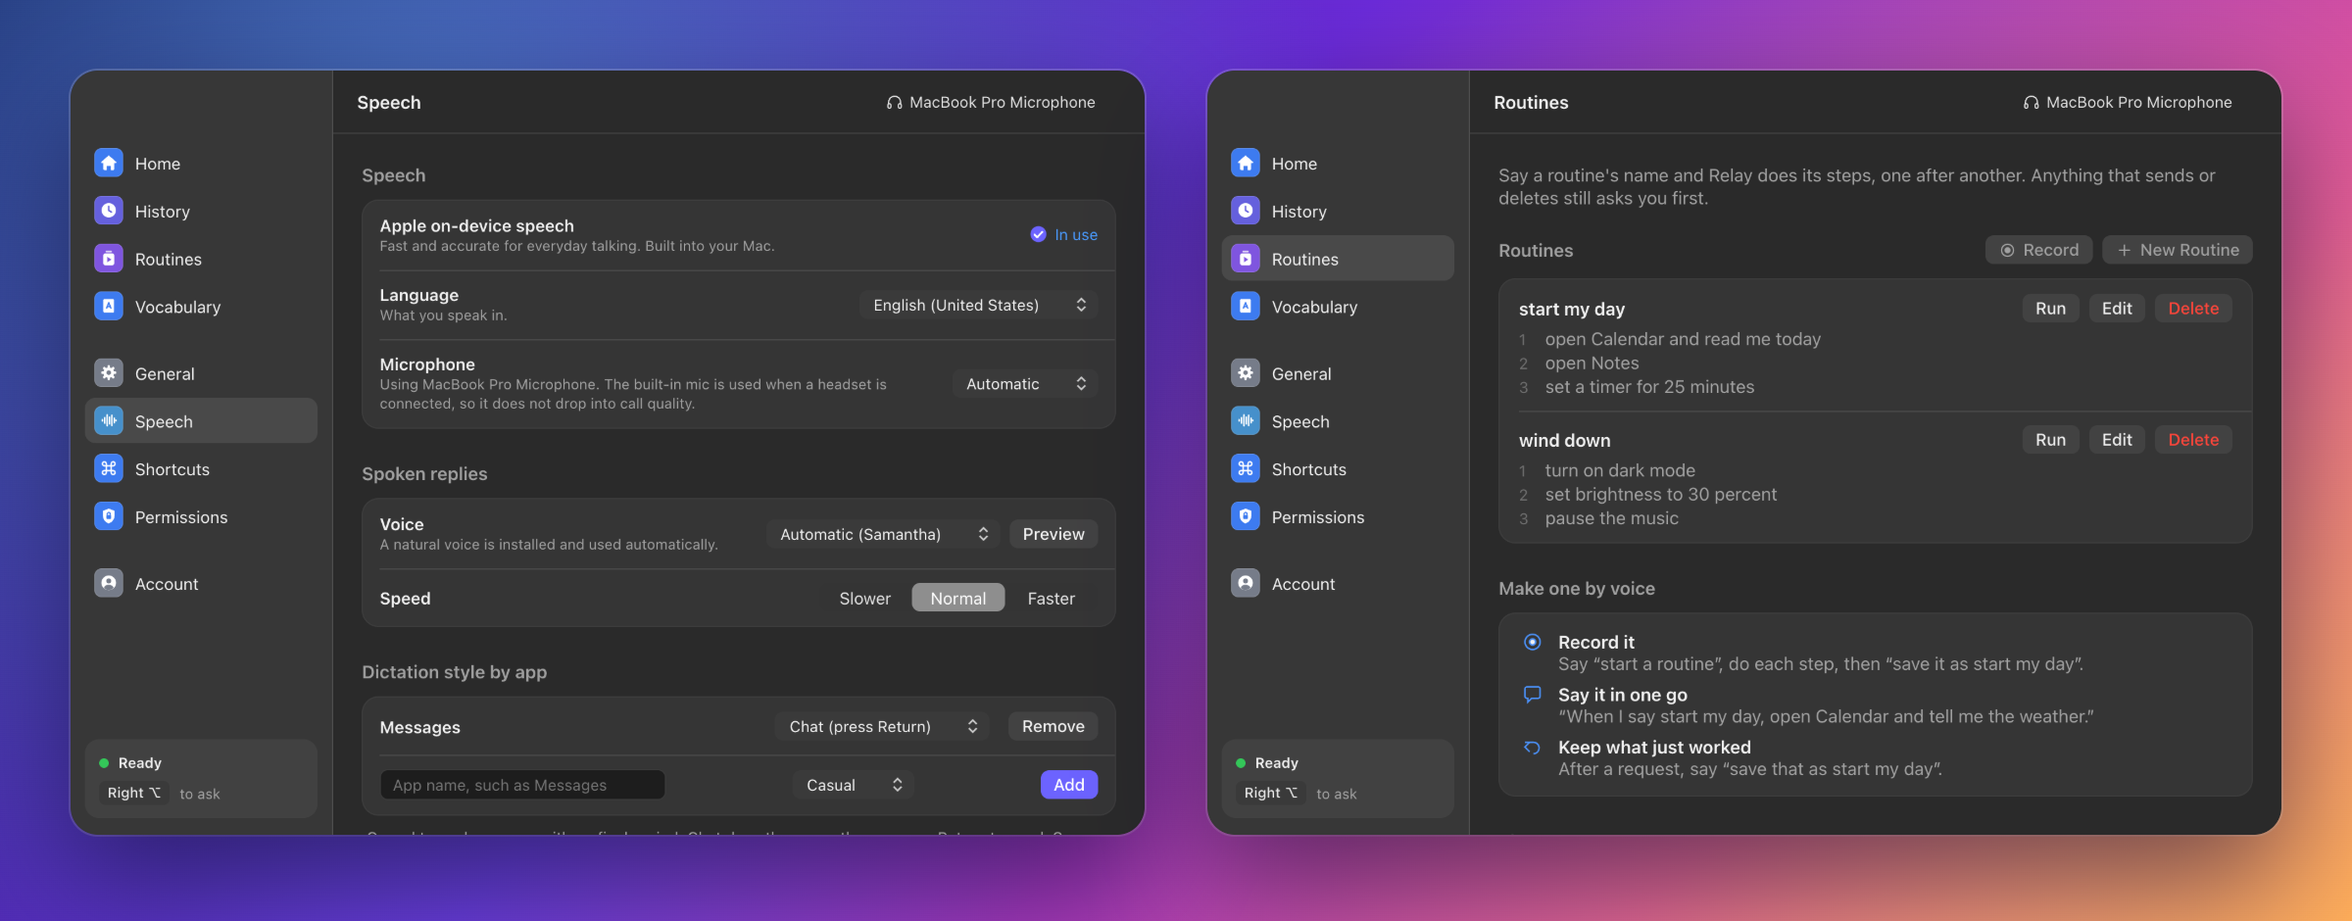
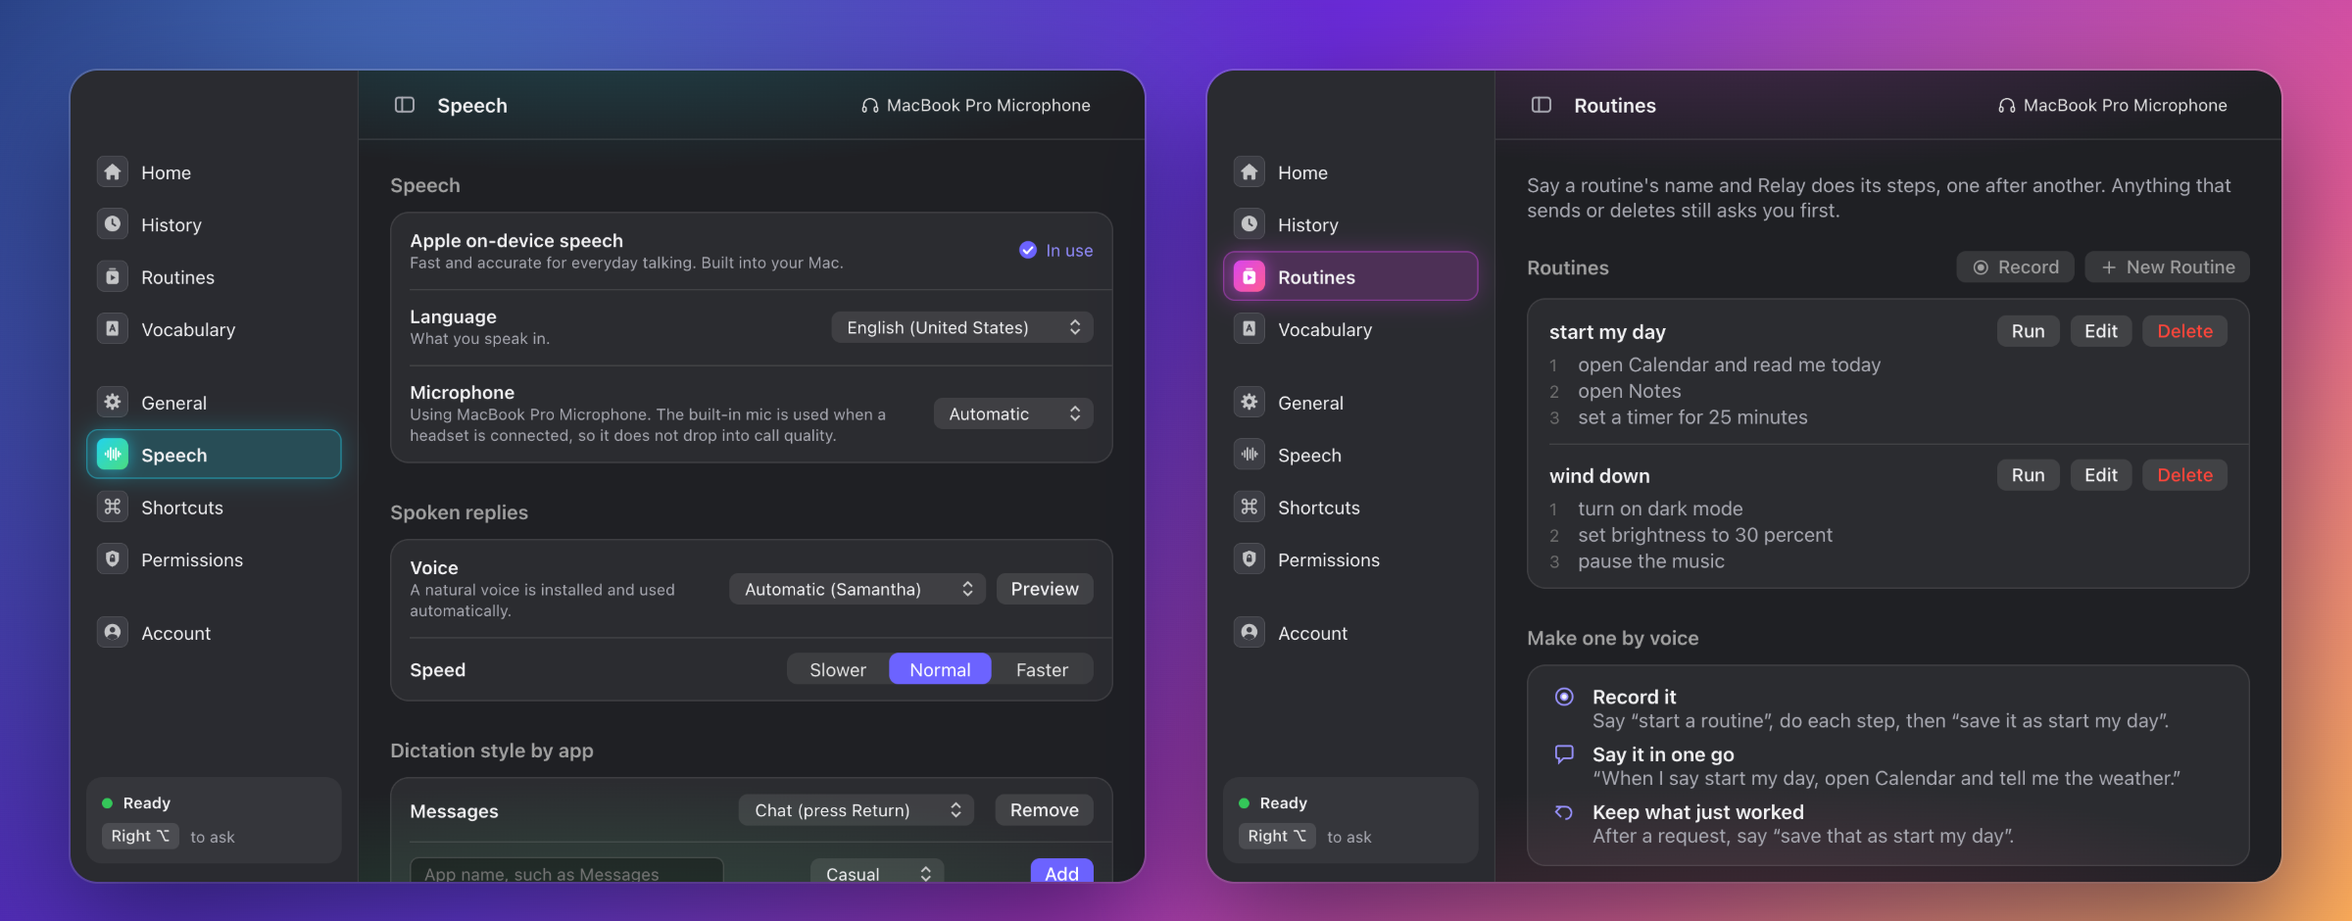
Calmer colours and a collapsible sidebar
Neutral gray interface with one fixed indigo accent for primary buttons,
toggles, selected segments and the chart. The page colour now only tints soft
glows at the top and bottom of the window and the selected sidebar item; the
rest of the sidebar is gray. The sidebar collapses to the left from a button in
the top bar or with Cmd+\ and the choice is remembered. Screenshots, README
images and the changelog are updated.

diff --git a/src/renderer/styles.css b/src/renderer/styles.css
@@ -1,20 +1,19 @@
-/* Window 820x620. Every page has its own colour (--pc, --pc2), set from app.js; --accent follows it. */
+/* Window 820x620. Neutral gray with one indigo accent. The page colour (--pc, --pc2, set from app.js) only tints the soft glows at the top and bottom and the selected sidebar item. */
 :root {
-  --bg: #120f2b;
-  --sidebar: rgba(8, 6, 28, 0.5);
-  --card: rgba(255, 255, 255, 0.07);
-  --card-border: rgba(255, 255, 255, 0.12);
+  --bg: #1f2024;
+  --sidebar: #2a2b30;
+  --card: rgba(255, 255, 255, 0.055);
+  --card-border: rgba(255, 255, 255, 0.09);
   --hair: rgba(255, 255, 255, 0.1);
-  --text: #f6f4ff;
-  --muted: #b3aed6;
-  --dim: #9a95c0;
-  --chip: rgba(255, 255, 255, 0.11);
+  --text: #f3f3f5;
+  --muted: #a9aab3;
+  --dim: #8d8e98;
+  --chip: rgba(255, 255, 255, 0.09);
   --sel: rgba(255, 255, 255, 0.09);
   --pc: #6c63ff;
   --pc2: #c13cf0;
-  --on: #fff;
-  --accent: var(--pc);
-  --link: color-mix(in srgb, var(--pc) 55%, #fff);
+  --accent: #6c63ff;
+  --link: #928cff;
   --green: #34c759;
   --orange: #ff9f0a;
   --red: #ff453a;
@@ -28,21 +27,24 @@
 }
 * { box-sizing: border-box; margin: 0; padding: 0; }
 html, body { height: 100%; background: var(--bg); color: var(--text); font-size: var(--fs-body); -webkit-font-smoothing: antialiased; user-select: none; cursor: default; overflow: hidden; }
-body { background: radial-gradient(760px 420px at 12% -8%, color-mix(in srgb, var(--pc) 34%, transparent), transparent 70%), radial-gradient(640px 420px at 100% 105%, color-mix(in srgb, var(--pc2) 26%, transparent), transparent 70%), var(--bg); }
+body { background: radial-gradient(620px 170px at 50% -50px, color-mix(in srgb, var(--pc) 22%, transparent), transparent 75%), radial-gradient(620px 170px at 50% calc(100% + 50px), color-mix(in srgb, var(--pc2) 18%, transparent), transparent 75%), var(--bg); }
 button { font: inherit; color: inherit; border: 0; background: none; cursor: default; }
 input, textarea, select { font: inherit; color: inherit; user-select: text; }
 a, .link { color: var(--link); cursor: default; }
 
 /* ---------- main window ---------- */
-.app { display: grid; grid-template-columns: 220px minmax(0, 1fr); grid-template-rows: minmax(0, 100vh); height: 100vh; }
-.sidebar { background: var(--sidebar); border-right: 1px solid rgba(255, 255, 255, 0.1); padding: 58px 12px 14px; display: flex; flex-direction: column; -webkit-app-region: drag; }
+.app { display: grid; grid-template-columns: auto minmax(0, 1fr); grid-template-rows: minmax(0, 100vh); height: 100vh; overflow: hidden; }
+.app.collapsed .sidebar { margin-left: -221px; }
+.sidebar { width: 220px; flex: none; background: var(--sidebar); border-right: 1px solid rgba(255, 255, 255, 0.08); padding: 58px 12px 14px; display: flex; flex-direction: column; -webkit-app-region: drag; transition: margin-left 0.22s ease; }
 .sidebar > * { -webkit-app-region: no-drag; }
 .nav { display: flex; flex-direction: column; gap: 2px; }
 .nav + .nav { margin-top: 18px; }
 .nav-item { display: flex; align-items: center; gap: 10px; height: 38px; padding: 0 8px; border-radius: 9px; font-size: var(--fs-nav); font-weight: 400; }
-.nav-item.active { background: linear-gradient(135deg, color-mix(in srgb, var(--tc) 55%, transparent), color-mix(in srgb, var(--tc2) 32%, transparent)); box-shadow: inset 0 0 0 1px color-mix(in srgb, var(--tc) 55%, transparent); font-weight: 600; }
-.nav-item:hover:not(.active) { background: color-mix(in srgb, var(--tc) 16%, transparent); }
-.icon-box { width: 24px; height: 24px; border-radius: 6px; display: grid; place-items: center; flex: none; box-shadow: inset 0 0 0 0.5px rgba(255, 255, 255, 0.18); }
+.nav-item.active { background: color-mix(in srgb, var(--tc) 20%, transparent); box-shadow: inset 0 0 0 1px color-mix(in srgb, var(--tc) 42%, transparent), 0 0 18px color-mix(in srgb, var(--tc) 26%, transparent); font-weight: 600; }
+.nav-item:hover:not(.active) { background: rgba(255, 255, 255, 0.06); }
+.icon-box { width: 24px; height: 24px; border-radius: 6px; display: grid; place-items: center; flex: none; background: #3c3d44; --bc: #3c3d44; box-shadow: inset 0 0 0 0.5px rgba(255, 255, 255, 0.12); }
+.nav-item:not(.active) .icon-box svg { opacity: 0.7; }
+.nav-item.active .icon-box { background: linear-gradient(135deg, var(--tc), var(--tc2)); --bc: var(--tc); box-shadow: 0 0 12px color-mix(in srgb, var(--tc) 60%, transparent); }
 .icon-box svg { width: 16px; height: 16px; }
 .spacer { flex: 1; }
 .status-card { background: rgba(255, 255, 255, 0.05); border-radius: 12px; padding: 12px 12px 12px; height: 66px; }
@@ -50,14 +52,18 @@ a, .link { color: var(--link); cursor: default; }
 .dot { width: 8px; height: 8px; border-radius: 50%; background: var(--green); flex: none; }
 .dot.off { background: var(--orange); }
 .status-hint { display: flex; align-items: center; gap: 8px; margin-top: 8px; color: var(--muted); font-size: 12px; }
-.kbd { background: color-mix(in srgb, var(--pc) 26%, rgba(255, 255, 255, 0.08)); border-radius: 6px; padding: 0 12px; height: 23px; line-height: 23px; font-size: var(--fs-body); font-weight: 500; color: #ececec; white-space: nowrap; display: inline-block; }
+.kbd { background: rgba(255, 255, 255, 0.11); border-radius: 6px; padding: 0 12px; height: 23px; line-height: 23px; font-size: var(--fs-body); font-weight: 500; color: #ececec; white-space: nowrap; display: inline-block; }
 .kbd.small { padding: 0 7px; height: 20px; line-height: 20px; border-radius: 5px; font-size: 12px; }
 .row .kbd, .get-row .kbd { width: 90px; padding: 0; text-align: center; flex: none; }
-.row .kbd { background: color-mix(in srgb, var(--pc) 26%, rgba(255, 255, 255, 0.08)); height: 24px; line-height: 24px; }
+.row .kbd { background: rgba(255, 255, 255, 0.11); height: 24px; line-height: 24px; }
 
 .main { display: flex; flex-direction: column; min-width: 0; min-height: 0; }
-.topbar { height: 53px; border-bottom: 1px solid var(--hair); display: flex; align-items: center; justify-content: space-between; padding: 0 31px 0 20px; flex: none; -webkit-app-region: drag; }
-.topbar h1 { font-size: var(--fs-title); font-weight: 600; }
+.topbar { transition: padding-left 0.22s ease; height: 53px; border-bottom: 1px solid var(--hair); display: flex; align-items: center; justify-content: space-between; padding: 0 31px 0 20px; flex: none; -webkit-app-region: drag; }
+.topbar h1 { font-size: var(--fs-title); font-weight: 600; flex: 1; }
+.app.collapsed .topbar { padding-left: 84px; }
+.sbtn { -webkit-app-region: no-drag; width: 30px; height: 26px; border-radius: 7px; display: grid; place-items: center; flex: none; margin-right: 10px; color: var(--muted); }
+.sbtn:hover { background: rgba(255, 255, 255, 0.1); color: var(--text); }
+.sbtn svg { width: 18px; height: 18px; stroke: currentColor; fill: none; stroke-width: 1.6; stroke-linecap: round; stroke-linejoin: round; }
 .device { display: flex; align-items: center; justify-content: center; gap: 5px; color: #e4e4e4; font-size: var(--fs-body); width: 196px; white-space: nowrap; overflow: hidden; text-overflow: ellipsis; }
 .device svg { width: 15px; height: 15px; stroke: #e4e4e4; fill: none; stroke-width: 1.7; flex: none; }
 .content { flex: 1; overflow-y: auto; padding: 25px 24px 28px 24px; }
@@ -85,20 +91,20 @@ a, .link { color: var(--link); cursor: default; }
 .row .d.s13 { font-size: 13px; }
 .row .grow { flex: 1; min-width: 0; }
 .row .ttl { font-weight: 600; font-size: 14px; line-height: 18px; }
-.btn { background: color-mix(in srgb, var(--pc) 26%, rgba(255, 255, 255, 0.07)); box-shadow: inset 0 0 0 1px color-mix(in srgb, var(--pc) 38%, transparent); border-radius: 7px; padding: 0 11px; height: 24px; line-height: 24px; font-size: var(--fs-row); font-weight: 500; white-space: nowrap; display: inline-flex; align-items: center; gap: 6px; }
+.btn { background: rgba(255, 255, 255, 0.1); border-radius: 7px; padding: 0 11px; height: 24px; line-height: 24px; font-size: var(--fs-row); font-weight: 500; white-space: nowrap; display: inline-flex; align-items: center; gap: 6px; }
 .btn svg { width: 15px; height: 15px; stroke: currentColor; fill: none; stroke-width: 1.8; stroke-linecap: round; stroke-linejoin: round; }
-.btn:hover { background: color-mix(in srgb, var(--pc) 42%, rgba(255, 255, 255, 0.08)); }
-.btn.primary { background: linear-gradient(135deg, var(--pc), var(--pc2)); color: var(--on); box-shadow: 0 4px 14px color-mix(in srgb, var(--pc) 45%, transparent); }
-.btn.primary:hover { background: linear-gradient(135deg, var(--pc), var(--pc2)); filter: brightness(1.12); }
+.btn:hover { background: rgba(255, 255, 255, 0.16); }
+.btn.primary { background: var(--accent); color: #fff; }
+.btn.primary:hover { background: var(--accent); filter: brightness(1.12); }
 .btn.danger { color: var(--red); }
 .btn.big { height: 44px; border-radius: 10px; font-size: 16px; font-weight: 600; justify-content: center; width: 100%; }
 .btn[disabled] { opacity: 0.4; pointer-events: none; }
 .seg { display: inline-flex; background: rgba(255, 255, 255, 0.08); border-radius: 8px; padding: 0; }
 .seg button { padding: 0 8px; height: 24px; border-radius: 7px; font-size: var(--fs-row); color: #e6e6e6; width: 92px; }
-.seg button.on { background: linear-gradient(135deg, var(--pc), var(--pc2)); color: var(--on); box-shadow: 0 2px 10px color-mix(in srgb, var(--pc) 45%, transparent); }
+.seg button.on { background: var(--accent); color: #fff; }
 .toggle { width: 36px; height: 16px; border-radius: 8px; background: rgba(255, 255, 255, 0.24); position: relative; flex: none; transition: background 0.15s; }
 .toggle::after { content: ""; position: absolute; top: -1px; left: 0; width: 18px; height: 18px; border-radius: 50%; background: #fff; transition: transform 0.15s; box-shadow: 0 1px 2px rgba(0, 0, 0, 0.35); }
-.toggle.on { background: linear-gradient(90deg, var(--pc), var(--pc2)); }
+.toggle.on { background: var(--accent); }
 .toggle.on::after { transform: translateX(18px); }
 .field { width: 100%; background: rgba(0, 0, 0, 0.3); border: 1px solid rgba(255, 255, 255, 0.16); border-radius: 7px; height: 28px; padding: 0 10px; font-size: var(--fs-body); outline: none; }
 .field:focus { border-color: var(--accent); }
@@ -121,7 +127,7 @@ textarea.field { height: auto; padding: 8px 10px; }
 .stats .l { color: var(--muted); font-size: var(--fs-body); margin-top: 5px; }
 .get-row { display: flex; align-items: center; gap: 15px; padding: 12px 12px 13px 13px; min-height: 59px; }
 .get-row .ic { width: 22px; display: grid; place-items: center; color: var(--muted); flex: none; }
-.get-row .ic.blue { color: color-mix(in srgb, var(--pc) 70%, #fff); }
+.get-row .ic.blue { color: color-mix(in srgb, var(--accent) 70%, #fff); }
 .get-row .ic svg { width: 22px; height: 22px; stroke: currentColor; fill: none; stroke-width: 1.5; stroke-linecap: round; stroke-linejoin: round; }
 .get-row .grow { flex: 1; min-width: 0; max-width: 310px; }
 .get-row .kbd { margin-left: auto; }
@@ -142,13 +148,13 @@ textarea.field { height: auto; padding: 8px 10px; }
 .chart .grid { position: absolute; left: 44px; right: 18px; top: 18px; bottom: 36px; }
 .chart .gl { position: absolute; left: 0; right: 0; height: 1px; background: rgba(255, 255, 255, 0.08); }
 .chart .gy { position: absolute; left: -30px; color: var(--dim); font-size: 11.5px; transform: translateY(-50%); }
-.chart .bars { position: absolute; left: 44px; right: 18px; top: 18px; bottom: 36px; display: flex; align-items: flex-end; gap: 0; }
+.chart .bar { width: 36px; background: var(--accent); border-radius: 4px 4px 0 0; }
 .chart .col { flex: 1; display: flex; flex-direction: column; align-items: center; justify-content: flex-end; height: 100%; }
 .chart .bar { width: 36px; background: linear-gradient(var(--pc), var(--pc2)); border-radius: 4px 4px 0 0; }
 .chart .xl { position: absolute; bottom: 10px; color: var(--muted); font-size: var(--fs-small); transform: translateX(-50%); }
 .tabs { display: inline-flex; background: rgba(255, 255, 255, 0.08); border-radius: 8px; padding: 0; margin-bottom: 24px; }
 .tabs button { padding: 0 14px; height: 24px; border-radius: 8px; font-size: var(--fs-row); min-width: 81px; }
-.tabs button.on { background: linear-gradient(135deg, var(--pc), var(--pc2)); color: var(--on); box-shadow: 0 2px 10px color-mix(in srgb, var(--pc) 45%, transparent); }
+.tabs button.on { background: var(--accent); color: #fff; }
 .act { padding: 12px 16px; display: grid; grid-template-columns: 22px 1fr auto; gap: 12px; align-items: start; }
 .act + .act { border-top: 1px solid var(--hair); }
 .act .nm { font-weight: 600; font-size: var(--fs-body); }
@@ -172,7 +178,7 @@ textarea.field { height: auto; padding: 8px 10px; }
 .routine ol { margin: 4px 0 0 0; list-style: none; color: var(--muted); font-size: 15px; line-height: 19px; }
 .routine li span { color: #6f6f6f; display: inline-block; width: 22px; font-size: var(--fs-body); }
 .opt { display: flex; gap: 12px; padding: 4px 4px; }
-.opt svg { width: 19px; height: 19px; stroke: color-mix(in srgb, var(--pc) 70%, #fff); fill: none; stroke-width: 1.7; flex: none; margin-top: 0; }
+.opt svg { width: 19px; height: 19px; stroke: color-mix(in srgb, var(--accent) 70%, #fff); fill: none; stroke-width: 1.7; flex: none; margin-top: 0; }
 .opt .t { font-size: 15px; font-weight: 600; line-height: 18px; }
 .opt .d { color: var(--muted); font-size: 15px; margin-top: 0; line-height: 18px; }
 .modal-bg { position: fixed; inset: 0; background: rgba(0, 0, 0, 0.5); display: grid; place-items: center; z-index: 10; }
@@ -190,7 +196,7 @@ textarea.field { height: auto; padding: 8px 10px; }
 .who .nm { font-weight: 600; font-size: var(--fs-row); }
 .who .em { color: var(--muted); font-size: var(--fs-body); margin-top: 1px; }
 .progress { height: 4px; background: rgba(255, 255, 255, 0.14); border-radius: 2px; overflow: hidden; margin-top: 8px; width: 220px; }
-.progress i { display: block; height: 100%; background: linear-gradient(90deg, var(--pc), var(--pc2)); }
+.progress i { display: block; height: 100%; background: var(--accent); }
 .lockline { display: flex; gap: 8px; color: var(--muted); font-size: var(--fs-body); line-height: 1.4; margin: 14px 4px 0; }
 .lockline svg { width: 14px; height: 14px; stroke: currentColor; fill: none; stroke-width: 1.8; flex: none; margin-top: 2px; }
 details.adv { margin-top: 22px; }
@@ -204,14 +210,14 @@ details.adv[open] summary::before { transform: rotate(90deg); }
 .onb > * { -webkit-app-region: no-drag; }
 .dots { display: flex; justify-content: center; align-items: center; gap: 8px; padding-top: 38px; height: 54px; flex: none; }
 .dots i { width: 8px; height: 8px; border-radius: 4px; background: rgba(255, 255, 255, 0.2); transition: width 0.2s; }
-.dots i.cur { width: 20px; background: linear-gradient(90deg, var(--pc), var(--pc2)); }
-.dots i.past { background: color-mix(in srgb, var(--pc) 55%, #666); }
+.dots i.cur { width: 20px; background: var(--accent); }
+.dots i.past { background: #8a8a92; }
 .stage { flex: 1; display: flex; flex-direction: column; align-items: center; justify-content: center; text-align: center; padding: 0 40px 10px; overflow: hidden; }
 .stage h2 { font-size: 26px; font-weight: 700; letter-spacing: -0.3px; margin-top: 24px; }
 .stage p.sub { color: var(--muted); font-size: 16px; margin-top: 10px; line-height: 1.4; max-width: 560px; }
 .stage p.fine { color: #7a7a7a; font-size: var(--fs-body); margin-top: 30px; }
 .footer { height: 54px; border-top: 1px solid var(--hair); display: flex; align-items: center; justify-content: space-between; padding: 0 24px; flex: none; }
-.pill-btn { background: linear-gradient(135deg, var(--pc), var(--pc2)); box-shadow: 0 4px 14px color-mix(in srgb, var(--pc) 40%, transparent); color: var(--on); border-radius: 20px; padding: 0 24px; height: 36px; font-size: var(--fs-row); font-weight: 500; }
+.pill-btn { background: var(--accent); color: #fff; border-radius: 20px; padding: 0 24px; height: 36px; font-size: var(--fs-row); font-weight: 500; }
 .pill-btn.dark { background: rgba(255, 255, 255, 0.12); box-shadow: none; padding: 0 20px; }
 .pill-btn[disabled] { opacity: 0.35; pointer-events: none; }
 .app-icon { width: 100px; height: 100px; position: relative; }
@@ -245,7 +251,7 @@ details.adv[open] summary::before { transform: rotate(90deg); }
 .steps b { color: #fff; }
 .yn { display: flex; gap: 12px; margin-top: 26px; }
 .yn button { background: rgba(255, 255, 255, 0.1); border-radius: 20px; padding: 0 26px; height: 38px; font-size: 16px; font-weight: 500; }
-.yn button.on { background: linear-gradient(135deg, var(--pc), var(--pc2)); }
+.yn button.on { background: var(--accent); }
 .form { width: 440px; text-align: left; margin-top: 22px; display: flex; flex-direction: column; gap: 12px; }
 
 .appicon { width: 30px; height: 30px; flex: none; display: grid; place-items: center; }

diff --git a/src/renderer/app.js b/src/renderer/app.js
@@ -51,7 +51,7 @@ function renderSidebar() {
   for (const group of NAV) {
     const nav = h('<nav class="nav"></nav>');
     for (const [id, name] of group) {
-      const item = h(`<div class="nav-item ${page === id ? 'active' : ''}" style="--tc:${THEME[id][0]};--tc2:${THEME[id][1]}"><span class="icon-box" style="background:${GRAD[id]};--bc:${COLORS[id]}">${glyph(NAV_GLYPH[id])}</span>${name}</div>`);
+      const item = h(`<div class="nav-item ${page === id ? 'active' : ''}" style="--tc:${THEME[id][0]};--tc2:${THEME[id][1]}"><span class="icon-box">${glyph(NAV_GLYPH[id])}</span>${name}</div>`);
       item.onclick = () => go(id);
       nav.append(item);
     }
@@ -74,15 +74,11 @@ function deviceLabel() {
   return `${icon('headphones')}${esc(d || 'Microphone')}`;
 }
 
-// The current page's colours drive --accent, buttons, toggles and the background glow (see styles.css).
+// The current page's colours tint the glows at the top and bottom and the selected sidebar item (see styles.css).
 function applyTheme() {
   const [a, b] = THEME[page] || THEME.home;
   document.documentElement.style.setProperty('--pc', a);
   document.documentElement.style.setProperty('--pc2', b);
-  // text on a filled button: dark on light colours (cyan, lime, yellow), white on the rest
-  const lum = (hex) => { const [r, g, bl] = [1, 3, 5].map((i) => parseInt(hex.slice(i, i + 2), 16) / 255).map((v) => (v <= 0.03928 ? v / 12.92 : ((v + 0.055) / 1.055) ** 2.4)); return 0.2126 * r + 0.7152 * g + 0.0722 * bl; };
-  const L = (lum(a) + lum(b)) / 2;
-  document.documentElement.style.setProperty('--on', 1.05 / (L + 0.05) >= (L + 0.05) / 0.055 ? '#fff' : '#0b0820');
 }
 
 function render() {
@@ -658,6 +654,19 @@ window.addEventListener('keyup', (e) => {
     perms = await relay.permissions();
     render();
   });
+  // Sidebar collapse: the button in the top bar, or Cmd+\. The choice is remembered.
+  const appEl = $('.app');
+  const setSidebar = (collapsed) => {
+    appEl.classList.toggle('collapsed', collapsed);
+    $('#sbtn').title = collapsed ? 'Show sidebar (⌘\\)' : 'Hide sidebar (⌘\\)';
+    try { localStorage.setItem('sidebar', collapsed ? 'collapsed' : 'open'); } catch {}
+  };
+  const toggleSidebar = () => setSidebar(!appEl.classList.contains('collapsed'));
+  $('#sbtn').onclick = toggleSidebar;
+  document.addEventListener('keydown', (e) => { if (e.metaKey && e.key === '\\') { e.preventDefault(); toggleSidebar(); } });
+  let saved = null;
+  try { saved = localStorage.getItem('sidebar'); } catch {}
+  setSidebar(saved === 'collapsed');
   relay.claudeStatus();
   relay.appIcons().then((i) => { appIcons = i; if (page === 'permissions') render(); });
   setInterval(async () => {

diff --git a/src/renderer/index.html b/src/renderer/index.html
@@ -10,7 +10,7 @@
 <div class="app">
   <aside class="sidebar" id="sidebar"></aside>
   <section class="main">
-    <header class="topbar"><h1 id="title"></h1><div class="device" id="device"></div></header>
+    <header class="topbar"><button class="sbtn" id="sbtn"><svg viewBox="0 0 20 20"><rect x="2.5" y="4" width="15" height="12" rx="2.5"/><path d="M8 4v12"/></svg></button><h1 id="title"></h1><div class="device" id="device"></div></header>
     <div class="content" id="content"></div>
   </section>
 </div>

diff --git a/CHANGELOG.md b/CHANGELOG.md
@@ -1,5 +1,11 @@
 # Changelog
 
+## Unreleased
+
+- More model services: OpenAI (ChatGPT API), Google Gemini, Groq, Mistral, xAI, DeepSeek and a custom OpenAI-compatible address, each with its own key and model. Pick one under Account > Model service.
+- Calmer look: a neutral gray interface with one indigo accent. Each page tints only the soft glows at the top and bottom of the window and the selected sidebar item; the rest of the sidebar stays gray.
+- The sidebar can be collapsed to the left (button in the top bar, or ⌘\) to give the page the whole window. Relay remembers the choice.
+
 ## 0.1.1
 
 - New colourful app icon and in-app logo, and the interface accent colour is now the logo's indigo instead of blue.
